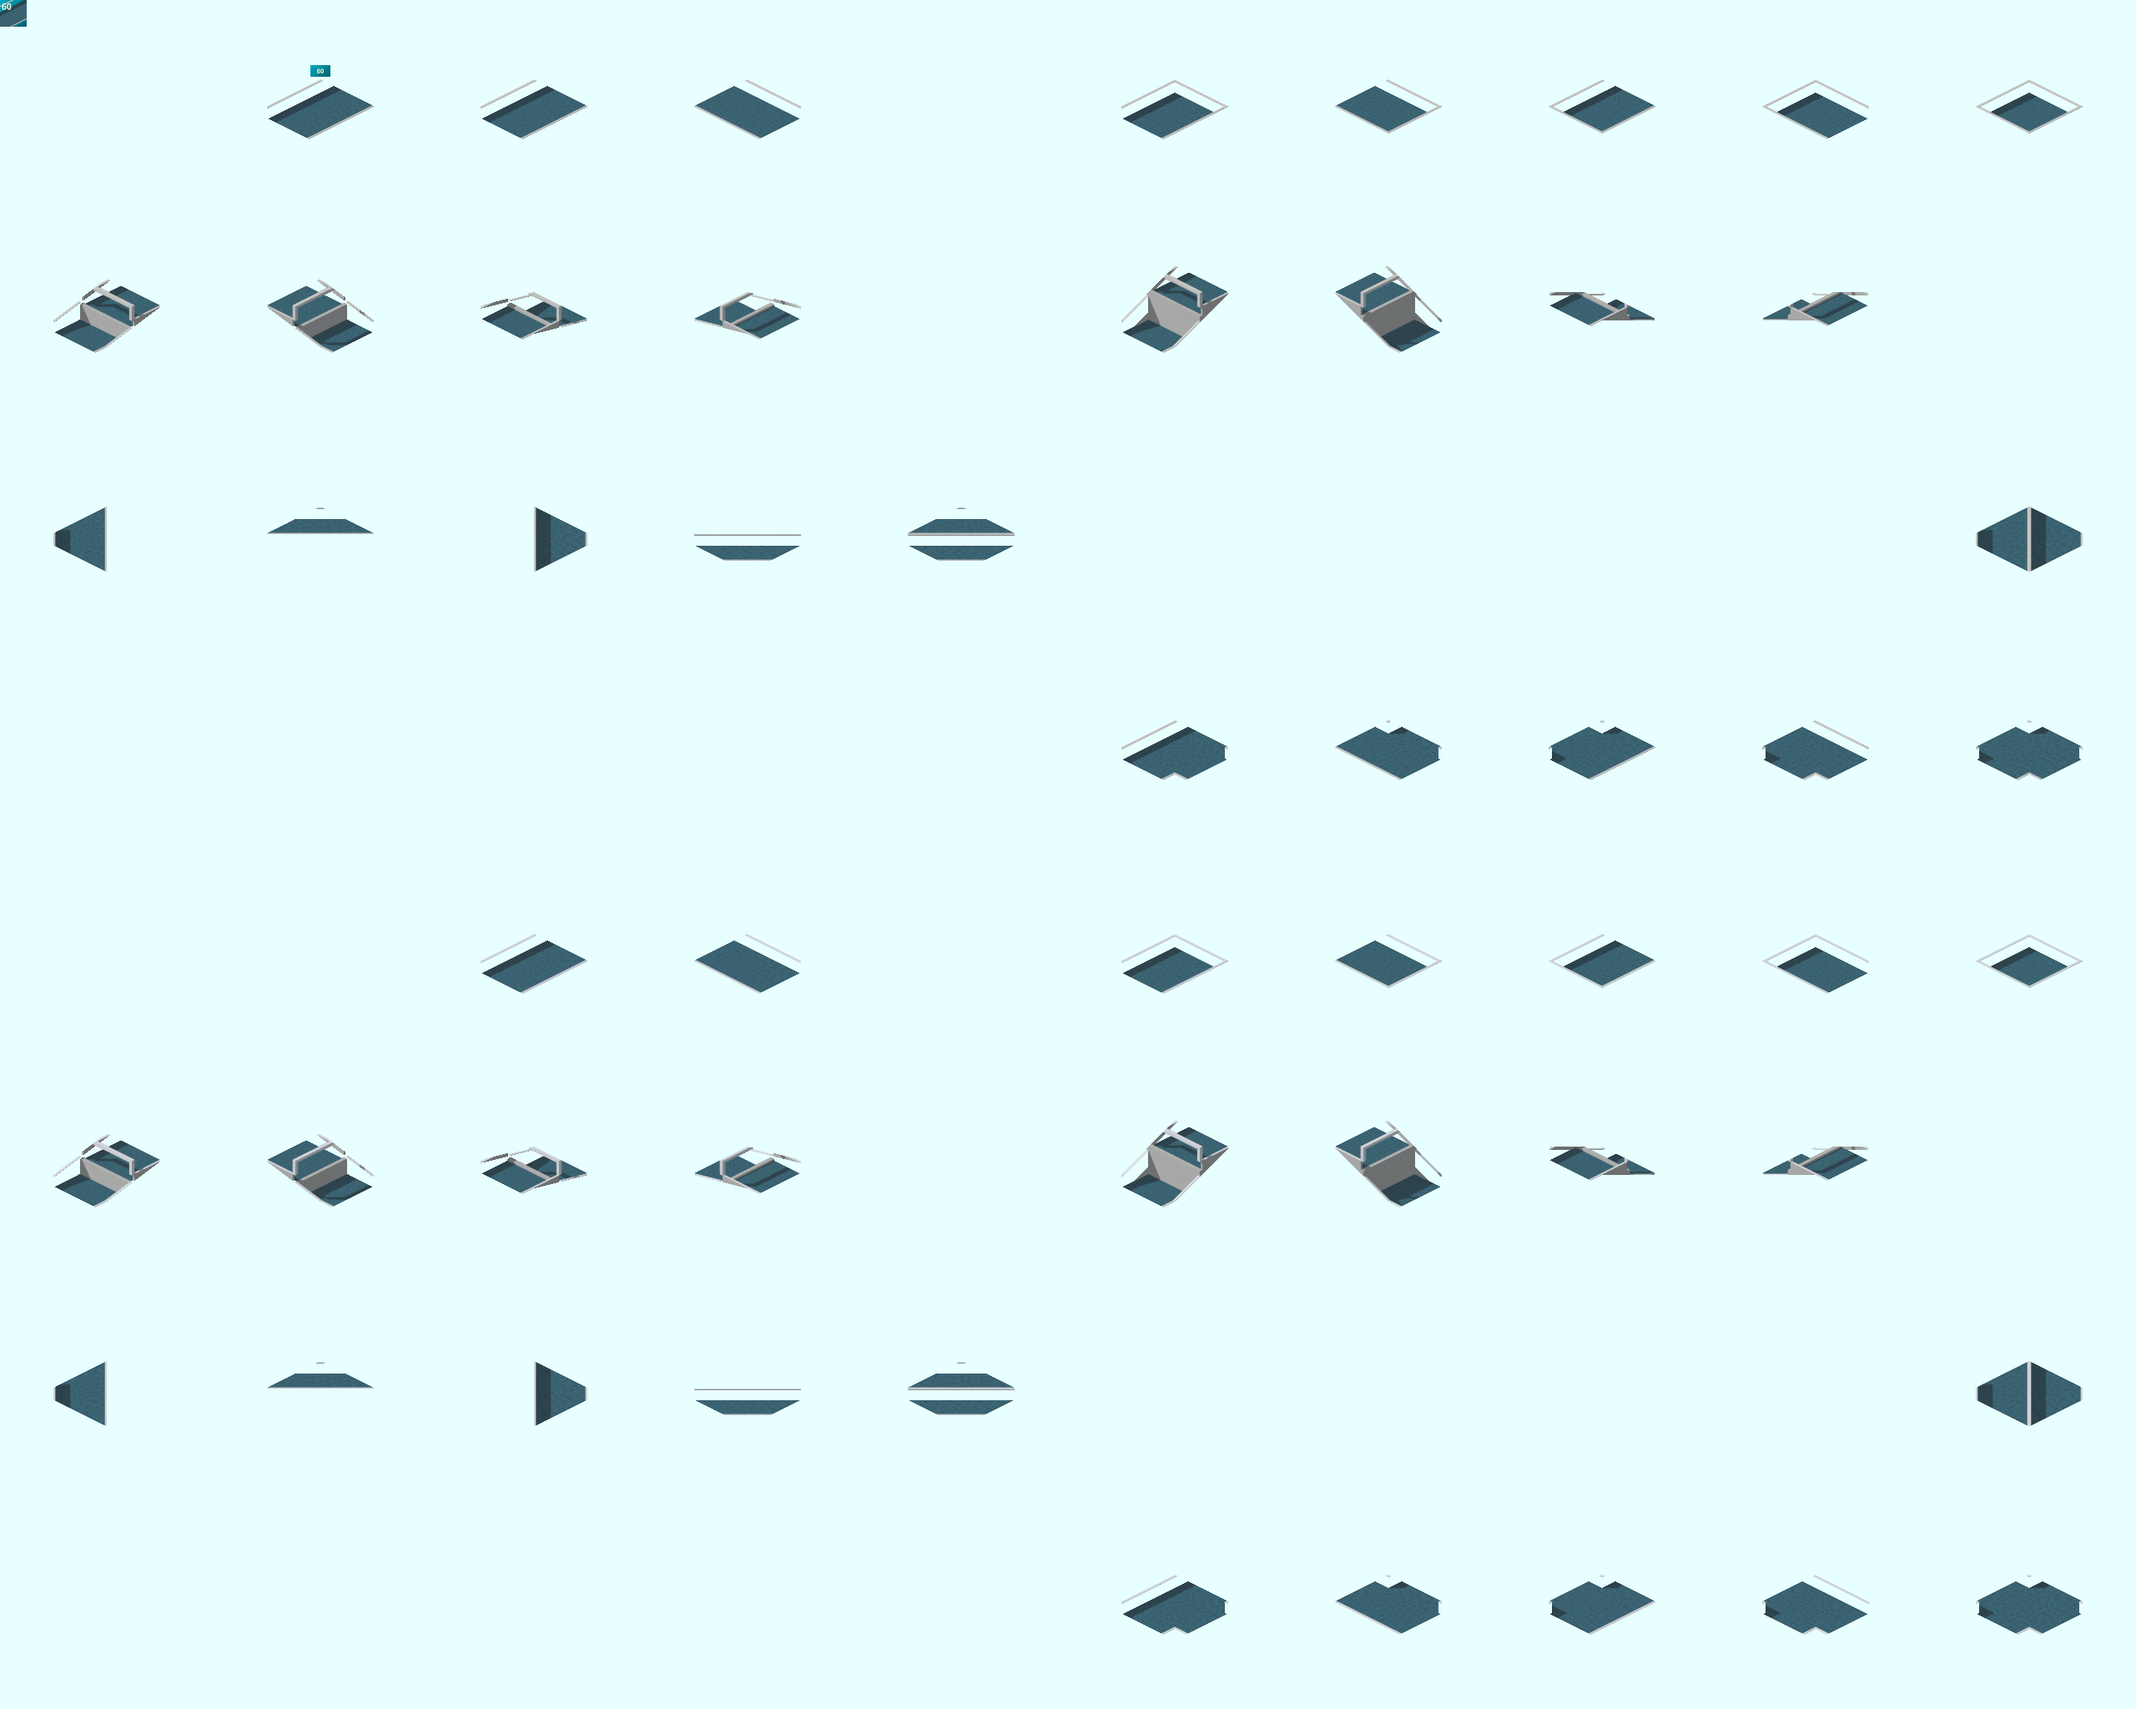
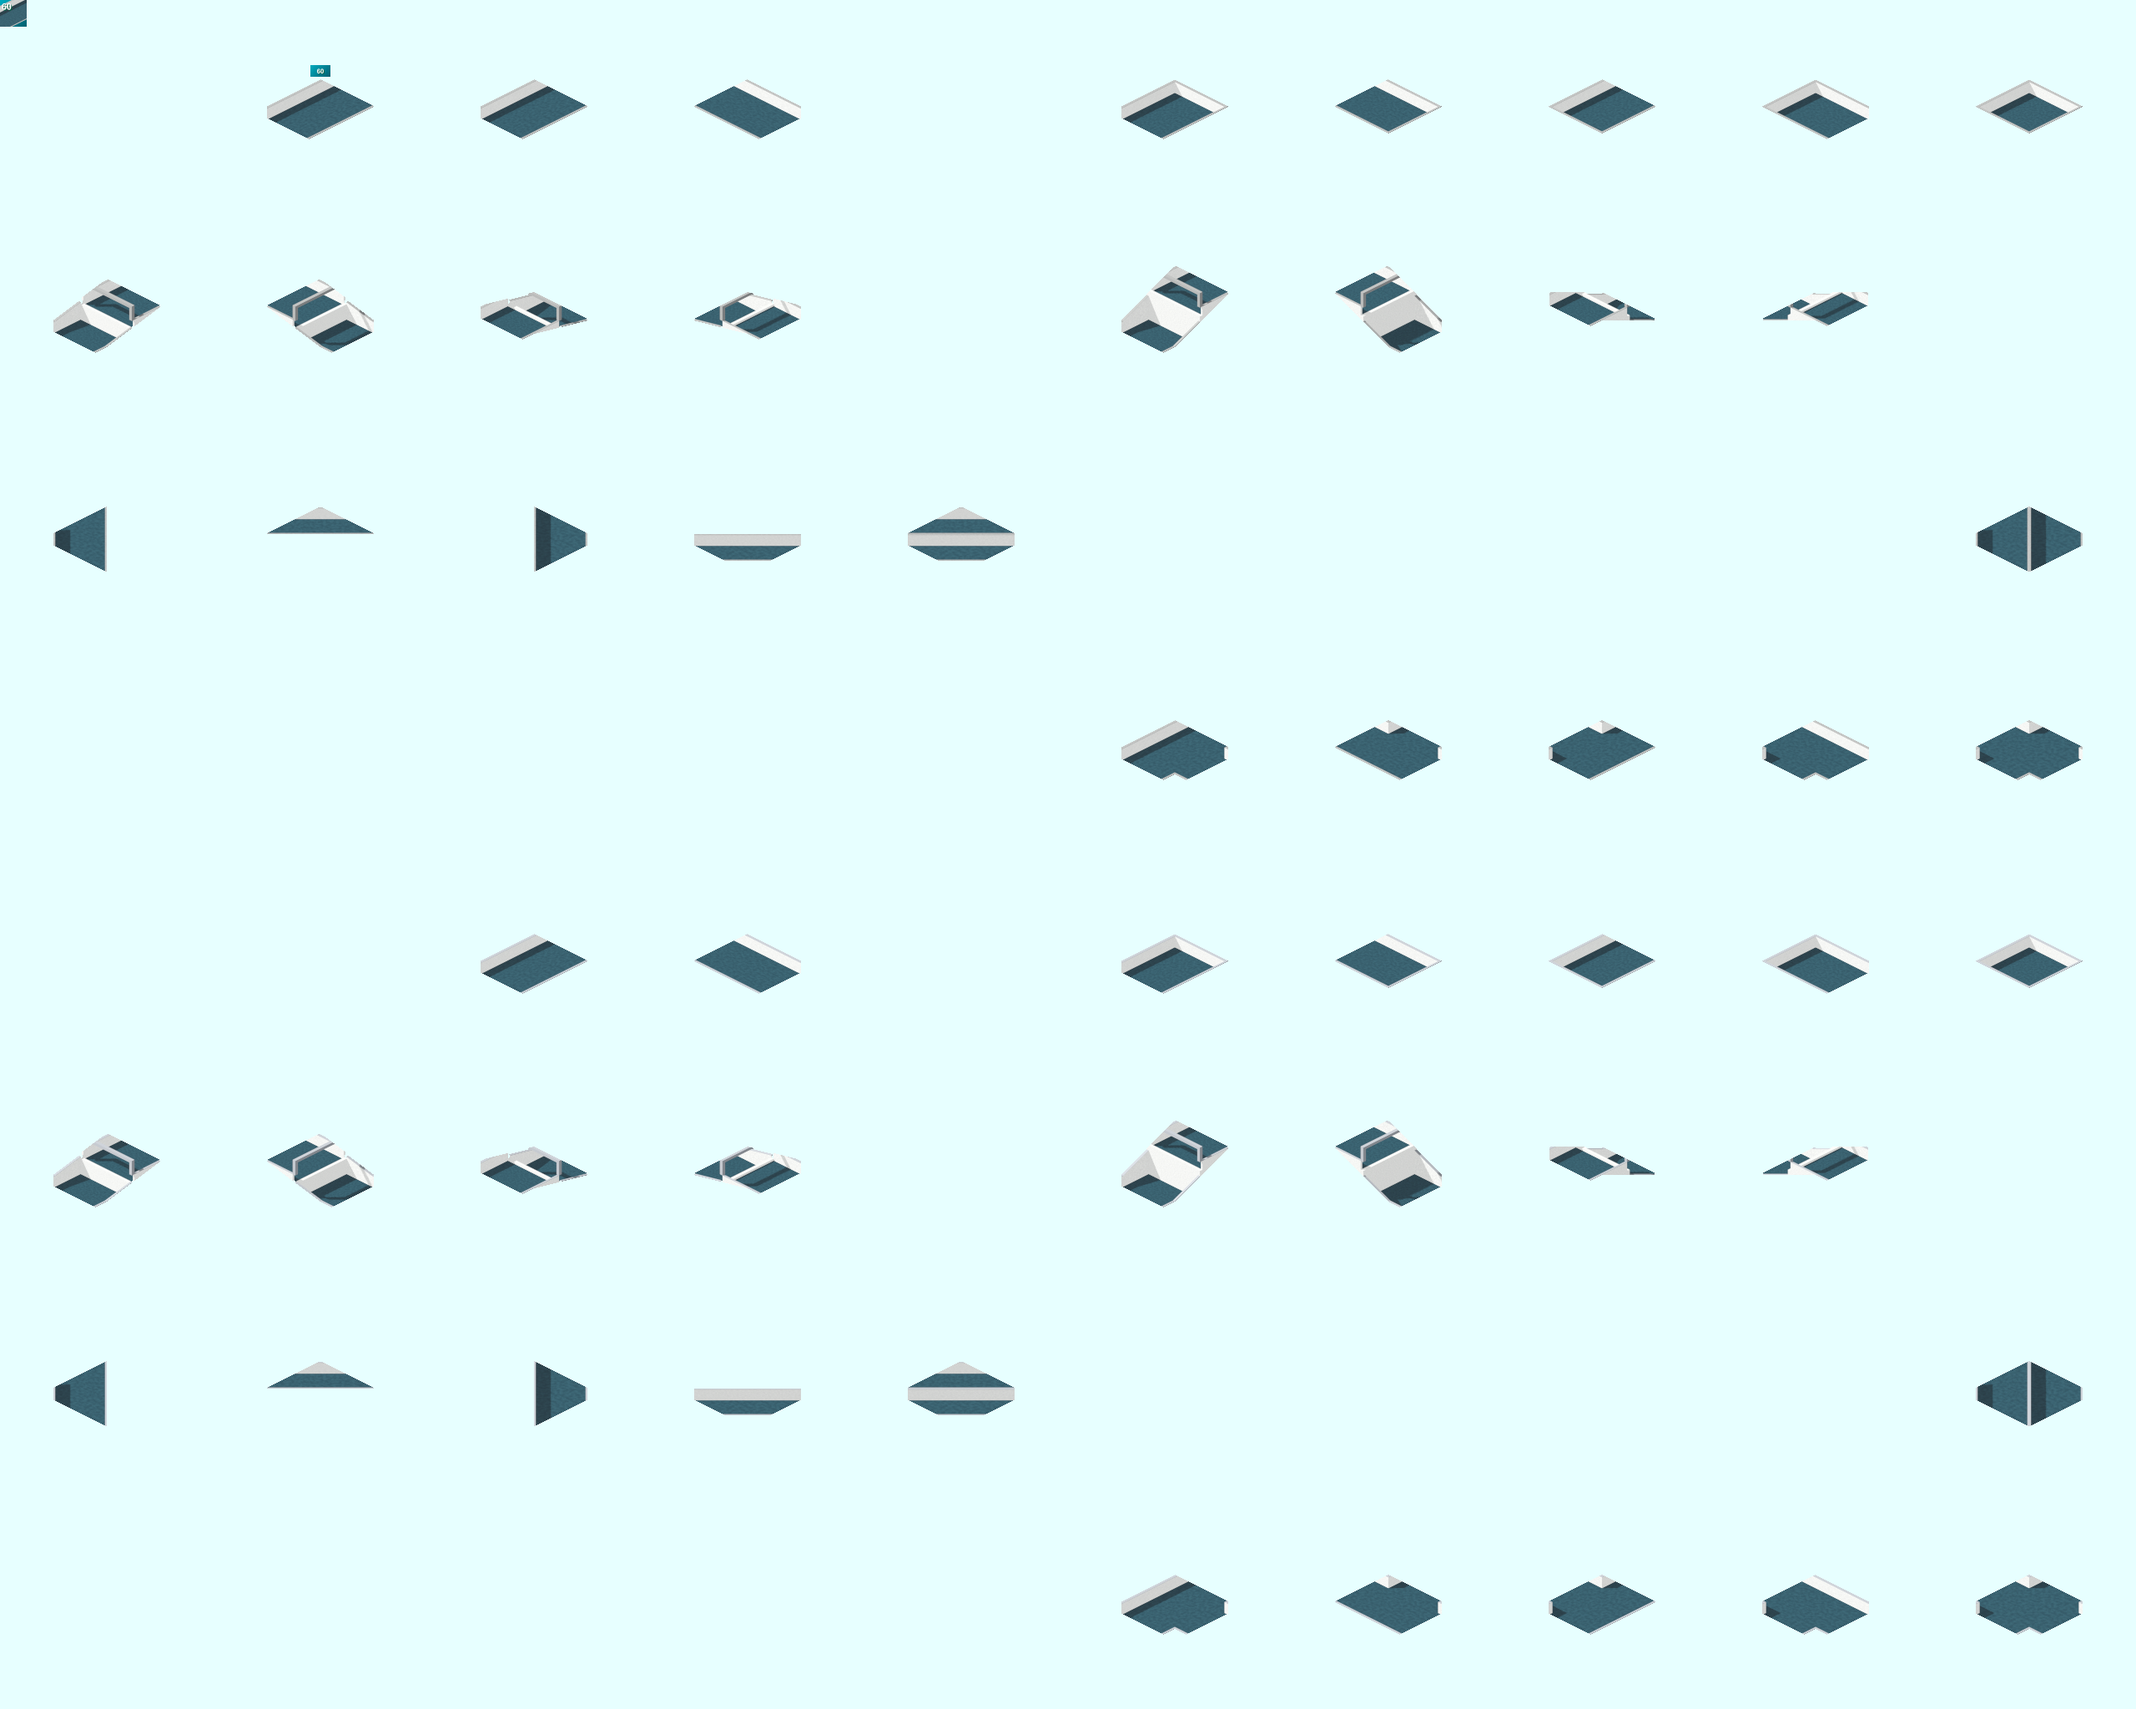
ami: show the scenic canal's concrete walls (the earth holdout hid the inner wall face) (#161)

diff --git a/tools/blender/sheetlib/canal.py b/tools/blender/sheetlib/canal.py
@@ -42,8 +42,8 @@ _M_COPING = lambda: noisy_material("canal_coping", COPING_LO, COPING_HI, scale=5
 # 景観の運河（#161）: iss の運河と同じ見せ方。水面は 13px 下（高さ 1 段 = 16px）で、タイルの辺近くまで広げ、縁は細い笠石。
 # 坂は閘門（iss と同じく、上下の水面を扉枠で分ける。LOCK）。実用の運河（ROAD_STYLE。#114）の寸法は変えない
 ROAD_STYLE = dict(pad=CANAL_PAD, bank=CANAL_BANK, coping=CANAL_COPING, water_z=CANAL_WATER_Z, wall_bottom=CANAL_WALL_BOTTOM, lock=False)
-SCENIC_STYLE = dict(bank=0.35, coping=0.3, water_z=-13 / 16 * H, wall_bottom=-13 / 16 * H - 0.35, lock=True, pad=2.6,
-                    wall_col=((0.55, 0.55, 0.53), (0.66, 0.66, 0.63)), coping_col=((0.74, 0.74, 0.71), (0.84, 0.84, 0.81)))
+SCENIC_STYLE = dict(bank=0.35, coping=0.3, water_z=-13 / 16 * H, wall_bottom=-13 / 16 * H - 0.35, lock=True, pad=2.6, earth_eps=-0.03,
+                    wall_col=((0.70, 0.70, 0.68), (0.80, 0.80, 0.77)), coping_col=((0.74, 0.74, 0.71), (0.84, 0.84, 0.81)))
 CANAL_STYLES = {"road": ROAD_STYLE, "scenic": SCENIC_STYLE}
 SCENIC_DEPTH_PX = 13      # 景観の運河の水面の深さ（画素。つなぎ目の持ち分を下へ広げる量）
 LOCK_GATE = 0.25         # 閘門の扉の半分の厚み（坂の向きの座標 u = ±LOCK_GATE の間）
@@ -196,7 +196,7 @@ def canal_build(name, slope, snow, st=ROAD_STYLE, slope_name=None):
     obs.append(_shell("canal_wall", name, bank - cop, wb, 0.0, wall, bank, None, pad))
     obs.append(_shell("canal_coping", name, bank - cop, 0.0, CANAL_COPING_T, coping, bank, None, pad))
     if not LAYOUT:
-        obs.append(_earth(name, bank, wb, reach, water, pad))
+        obs.append(_earth(name, bank, wb, reach, water, pad, st.get("earth_eps", CANAL_EARTH_EPS)))
     if slope:
         for ob in obs:
             apply_slope(ob, slope)
@@ -207,17 +207,17 @@ def _materials(st, snow):
     """水面・壁・笠石の材質。景観の運河（wall_col・coping_col がある）は iss のように明るいコンクリート"""
     water = make_material(_M_WATER, "canal_water")
     if "wall_col" in st:
-        wall = make_material(lambda: noisy_material("canal_wall_s", *st["wall_col"], scale=55, rough=0.9), "canal_wall_s")
+        wall = make_material(lambda: noisy_material("canal_wall_s", *st["wall_col"], scale=55, rough=0.9, emit=0.6), "canal_wall_s")
         cop = make_material(_SNOW if snow else (lambda: noisy_material("canal_coping_s", *st["coping_col"], scale=55, rough=0.85)), "canal_coping_s")
         return water, wall, cop
     return water, make_material(_M_WALL, "canal_wall"), make_material(_SNOW if snow else _M_COPING, "canal_coping")
 
 
-def _earth(name, bank, wb, reach, water, pad=CANAL_PAD):
+def _earth(name, bank, wb, reach, water, pad=CANAL_PAD, eps=CANAL_EARTH_EPS):
     """地面（holdout）。水路の形に抜く"""
     earth = _prism("canal_earth", [(-reach, -reach), (reach, -reach), (reach, reach), (-reach, reach)],
                    wb - 0.5, 0.0, _holdout())
-    cut = _joined("canal_earth_cut", canal_water_pieces(name, bank + CANAL_EARTH_EPS, pad), wb - 1.0, 1.0, water)
+    cut = _joined("canal_earth_cut", canal_water_pieces(name, bank + eps, pad), wb - 1.0, 1.0, water)
     boolean(earth, cut)
     _remove(cut)
     return earth
@@ -254,14 +254,14 @@ def _lock_build(name, slope, slope_name, st, water, wall, coping):
         obs.append(_joined(f"canal_pillar{sgn}", pil, top, top + LOCK_FRAME_Z, coping))
     obs.append(_joined("canal_lintel", gate, top + LOCK_FRAME_Z - 0.4, top + LOCK_FRAME_Z, coping))
     if not LAYOUT:
-        obs.append(_earth_sheared(name, bank, wb, slope, water, pad))
+        obs.append(_earth_sheared(name, bank, wb, slope, water, pad, st.get("earth_eps", CANAL_EARTH_EPS)))
     return obs
 
 
-def _earth_sheared(name, bank, wb, slope, water, pad=CANAL_PAD):
+def _earth_sheared(name, bank, wb, slope, water, pad=CANAL_PAD, eps=CANAL_EARTH_EPS):
     """傾けた地面（holdout）。坂の面に沿い、水路の形に抜く"""
     reach = TILE / 2 + pad
-    ob = _earth(name, bank, wb, reach, water, pad)
+    ob = _earth(name, bank, wb, reach, water, pad, eps)
     apply_slope(ob, slope)
     return ob
 
